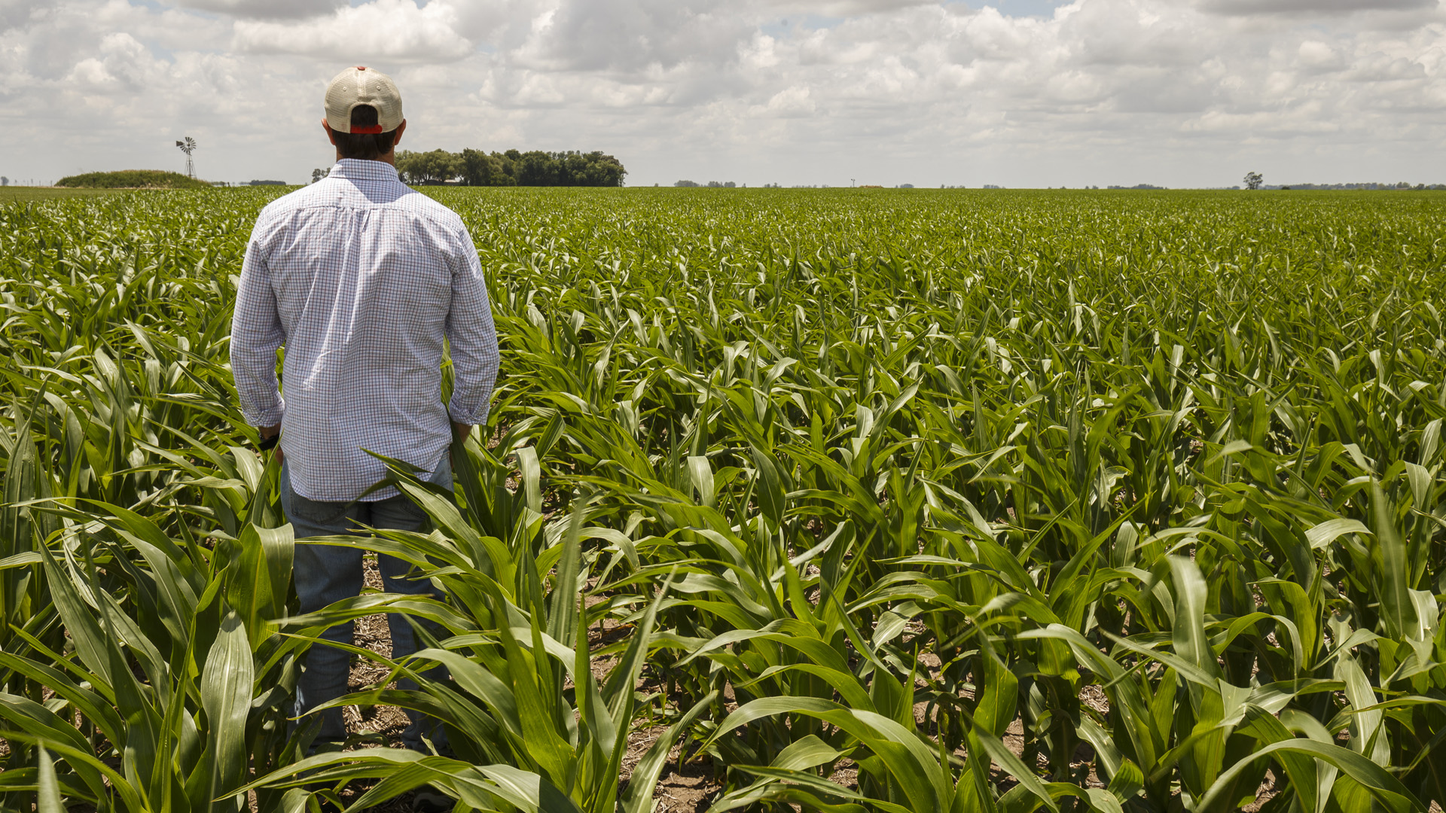
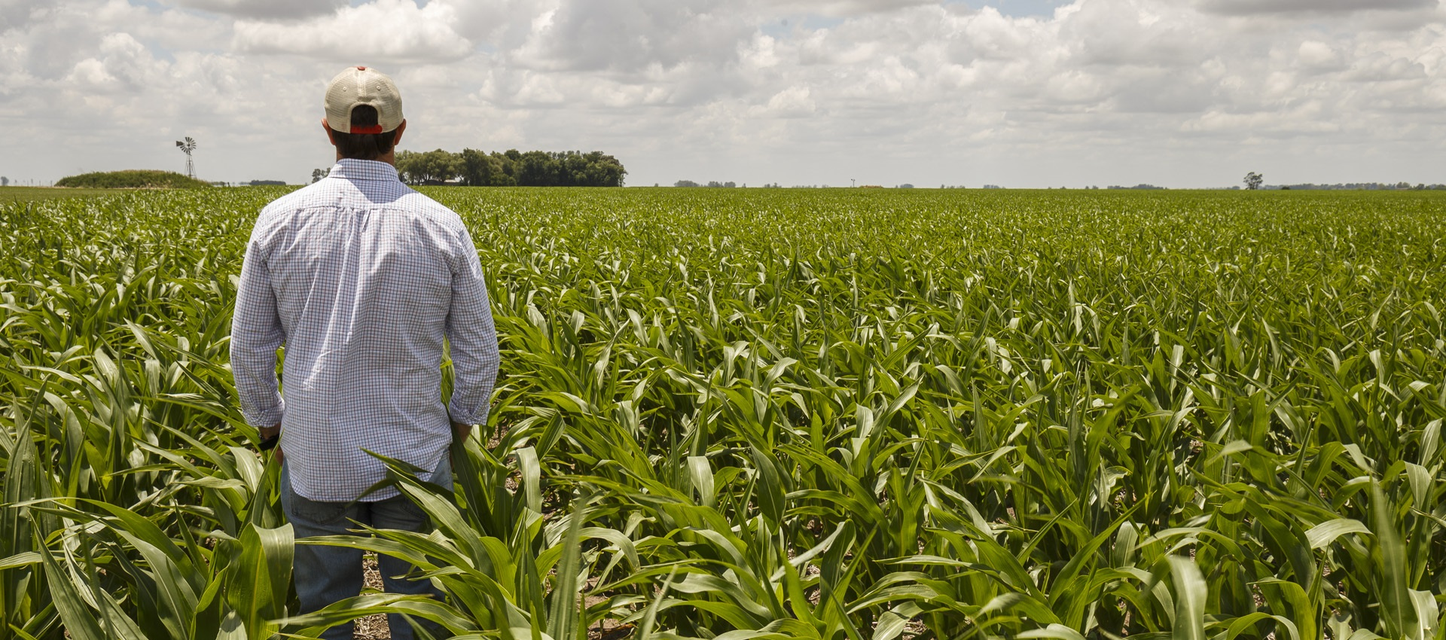
:fireworks: Home Page Modificated :fireworks:

diff --git a/src/app/components/home/home.component.html b/src/app/components/home/home.component.html
@@ -7,8 +7,8 @@
   </ol>
   <div class="carousel-inner">
     <div class="carousel-item active">
-      <img src="../../assets/home2.jpg" class="d-block w-100" height="800px">
-      <div class="carousel-caption d-none d-md-block color-carousel">
+      <img src="../../assets/home2.jpg" class="d-block w-100" height="700px">
+      <div class="carousel-caption d-none d-sm-block color-carousel">
         <h1>Potato's System</h1>
         <h4>Lorem ipsum dolor sit amet consectetur, adipisicing elit. Inventore aut incidunt itaque accusantium,
           provident, repudiandae adipisci saepe ipsam fugiat sequi cumque excepturi laborum voluptatibus deleniti
@@ -16,8 +16,8 @@
       </div>
     </div>
     <div class="carousel-item">
-      <img src="../../assets/home.jpg" class="d-block w-100" height="800px">
-      <div class="carousel-caption d-none d-md-block color-carousel">
+      <img src="../../assets/home.jpg" class="d-block w-100" height="700px">
+      <div class="carousel-caption d-none d-sm-block color-carousel">
         <h1>Lorem ipsum dolor sit</h1>
         <h4>Lorem ipsum dolor sit amet consectetur, adipisicing elit. Inventore aut incidunt itaque accusantium,
           provident, repudiandae adipisci saepe ipsam fugiat sequi cumque excepturi laborum voluptatibus deleniti
@@ -25,8 +25,8 @@
       </div>
     </div>
     <div class="carousel-item">
-      <img src="../../assets/home3.jpg" class="d-block w-100" height="800px">
-      <div class="carousel-caption d-none d-md-block color-carousel">
+      <img src="../../assets/home3.jpg" class="d-block w-100" height="700px">
+      <div class="carousel-caption d-none d-sm-block color-carousel">
         <h1>Lorem ipsum dolor sit</h1>
         <h4>Lorem ipsum dolor sit amet consectetur, adipisicing elit. Inventore aut incidunt itaque accusantium,
           provident, repudiandae adipisci saepe ipsam fugiat sequi cumque excepturi laborum voluptatibus deleniti
@@ -43,27 +43,33 @@
     <span class="sr-only">Next</span>
   </a>
 </div>
-<div class="container">
-  <p>Lorem ipsum dolor sit amet consectetur adipisicing elit. Ut nulla et similique quis voluptates unde soluta atque
-    cum, consectetur placeat magnam explicabo corporis sapiente iste possimus quos dolores laudantium! Vero?</p>
-  <p>Lorem ipsum dolor sit amet consectetur adipisicing elit. Ut nulla et similique quis voluptates unde soluta atque
-    cum, consectetur placeat magnam explicabo corporis sapiente iste possimus quos dolores laudantium! Vero?</p>
-  <p>Lorem ipsum dolor sit amet consectetur adipisicing elit. Ut nulla et similique quis voluptates unde soluta atque
-    cum, consectetur placeat magnam explicabo corporis sapiente iste possimus quos dolores laudantium! Vero?</p>
-  <p>Lorem ipsum dolor sit amet consectetur adipisicing elit. Ut nulla et similique quis voluptates unde soluta atque
-    cum, consectetur placeat magnam explicabo corporis sapiente iste possimus quos dolores laudantium! Vero?</p>
-  <p>Lorem ipsum dolor sit amet consectetur adipisicing elit. Ut nulla et similique quis voluptates unde soluta atque
-    cum, consectetur placeat magnam explicabo corporis sapiente iste possimus quos dolores laudantium! Vero?</p>
-  <p>Lorem ipsum dolor sit amet consectetur adipisicing elit. Ut nulla et similique quis voluptates unde soluta atque
-    cum, consectetur placeat magnam explicabo corporis sapiente iste possimus quos dolores laudantium! Vero?</p>
-  <p>Lorem ipsum dolor sit amet consectetur adipisicing elit. Ut nulla et similique quis voluptates unde soluta atque
-    cum, consectetur placeat magnam explicabo corporis sapiente iste possimus quos dolores laudantium! Vero?</p>
-  <p>Lorem ipsum dolor sit amet consectetur adipisicing elit. Ut nulla et similique quis voluptates unde soluta atque
-    cum, consectetur placeat magnam explicabo corporis sapiente iste possimus quos dolores laudantium! Vero?</p>
-  <p>Lorem ipsum dolor sit amet consectetur adipisicing elit. Ut nulla et similique quis voluptates unde soluta atque
-    cum, consectetur placeat magnam explicabo corporis sapiente iste possimus quos dolores laudantium! Vero?</p>
-  <p>Lorem ipsum dolor sit amet consectetur adipisicing elit. Ut nulla et similique quis voluptates unde soluta atque
-    cum, consectetur placeat magnam explicabo corporis sapiente iste possimus quos dolores laudantium! Vero?</p>
-  <p>Lorem ipsum dolor sit amet consectetur adipisicing elit. Ut nulla et similique quis voluptates unde soluta atque
-    cum, consectetur placeat magnam explicabo corporis sapiente iste possimus quos dolores laudantium! Vero?</p>
+
+<div class="container-fluid">
+  <div class="row grid">
+    <div class="col-md-4">
+      <i class="fas fa-headset"></i>
+      <br><br>
+      <h1>Lorem ipsum dolor sit</h1>
+      <br>
+      <h4>Lorem ipsum dolor sit amet consectetur adipisicing elit. Obcaecati molestias, distinctio at eum ex qui!
+        Architecto sunt eius recusandae doloremque at vero sequi cumque amet officia est id, nesciunt labore?</h4>
+    </div>
+    <div class="col-md-4">
+      <i class="fas fa-users"></i>
+      <br><br>
+      <h1>Lorem ipsum dolor sit</h1>
+      <br>
+      <h4>Lorem ipsum dolor sit amet consectetur, adipisicing elit. Est, corrupti quo, possimus eos aliquam esse labore
+        quae quidem adipisci natus, laboriosam ipsam neque nihil! Cumque aut mollitia possimus autem minima!</h4>
+    </div>
+    <div class="col-md-4">
+      <i class="fas fa-balance-scale"></i>
+      <br><br>
+      <h1>Lorem ipsum dolor sit</h1>
+      <br>
+      <h4>Lorem ipsum, dolor sit amet consectetur adipisicing elit. Consequatur iste deserunt obcaecati perferendis,
+        corporis repellendus est eius corrupti, rem libero quisquam consectetur? Accusamus non blanditiis
+        exercitationem eaque alias sunt itaque?</h4>
+    </div>
+  </div>
 </div>

diff --git a/src/app/components/home/home.component.css b/src/app/components/home/home.component.css
@@ -8,5 +8,27 @@
   margin-bottom: 50px;
 }
 
-.degrade {
+.grid{
+  padding-top: 20px; 
+  text-align: center;
+}
+
+h4{
+  text-align: justify;
+}
+
+i {
+  font-size: 250px;
+}
+
+@media (max-width: 965px) {
+  i {
+    font-size: 150px;
   }
+}
+
+@media (max-width: 767px) {
+  i {
+    font-size: 250px;
+  }
+}
